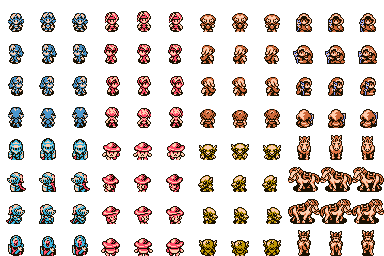
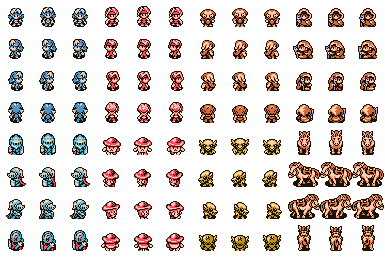
feat: thêm quái mushroom

diff --git a/Enemy.cpp b/Enemy.cpp
@@ -1,11 +1,10 @@
 #include "Enemy.h"
 
+// --- GoblinTexture ---
 Texture GoblinTexture::goblinDown;
 Texture GoblinTexture::goblinUp;
 Texture GoblinTexture::goblinLeft;
 Texture GoblinTexture::goblinRight;
-
-vector<Enemy*> EnemyManager::enemies;
 
 void GoblinTexture::LoadGoblinTextures() {
     goblinUp = LoadTexture("resources/images/goblinUp.png");
@@ -19,8 +18,8 @@ void GoblinTexture::UnloadGoblinTextures() {
     UnloadTexture(goblinDown);
     UnloadTexture(goblinRight);
     UnloadTexture(goblinLeft);
-
 }
+
 Texture GoblinTexture::GetCurrentTexture(Direction d) {
     switch (d) {
         case UP: return goblinUp;
@@ -28,20 +27,66 @@ Texture GoblinTexture::GetCurrentTexture(Direction d) {
         case RIGHT: return goblinRight;
         case LEFT: return goblinLeft;
         default: return goblinDown; 
-        break;
     }
 }
 
+// --- MushroomTexture ---
+Texture MushroomTexture::mushroomDown;
+Texture MushroomTexture::mushroomUp;
+Texture MushroomTexture::mushroomLeft;
+Texture MushroomTexture::mushroomRight;
+
+void MushroomTexture::LoadMushroomTextures() {
+    mushroomUp = LoadTexture("resources/images/mushroomUp.png");
+    mushroomDown = LoadTexture("resources/images/mushroomDown.png");
+    mushroomRight = LoadTexture("resources/images/mushroomRight.png");
+    mushroomLeft = LoadTexture("resources/images/mushroomLeft.png");
+}
+
+void MushroomTexture::UnloadMushroomTextures() {
+    UnloadTexture(mushroomUp);
+    UnloadTexture(mushroomDown);
+    UnloadTexture(mushroomRight);
+    UnloadTexture(mushroomLeft);
+}
+
+Texture MushroomTexture::GetCurrentTexture(Direction d) {
+    switch (d) {
+        case UP: return mushroomUp;
+        case DOWN: return mushroomDown;
+        case RIGHT: return mushroomRight;
+        case LEFT: return mushroomLeft;
+        default: return mushroomDown; 
+    }
+}
+
+vector<Enemy*> EnemyManager::enemies;
+int EnemyManager::goblinWaves = 0;
+int EnemyManager::mushroomWaves = 0;
+
+
+// --- Enemy base methods ---
+Rectangle Enemy::GetHitbox() { return hitbox; }
+void Enemy::TakeDamage(int dmg) {
+    if (dmg >= health) health = 0;
+    else health -= dmg;
+}
+void Enemy::SetPosition(Vector2 pos) {
+    hitbox.x = pos.x;
+    hitbox.y = pos.y;
+}
+void Enemy::Draw() { /* base: do nothing */ }
+void Enemy::Update() { /* base: do nothing */ }
+
+// --- Goblin ---
 void Goblin::Draw() {
     if (health > 0) {
         DrawTexture(texture.GetCurrentTexture(facing), hitbox.x, hitbox.y, WHITE);
     }
 }
 
-
-
 void Goblin::Update() {
-    Player p = Player::Instance();
+    Player& p = Player::Instance();
     Vector2 playerPos = { p.GetHitbox().x, p.GetHitbox().y };
     Vector2 goblinPos = {hitbox.x, hitbox.y};
 
@@ -171,25 +216,57 @@ void Goblin::Update() {
     }
 }
 
-Rectangle Goblin::GetHitbox() {
-    return hitbox;
-}
-
-void Goblin::TakeDamage(int dmg) {
-    if (dmg >= health) {
-        health = 0;
-    }
-    else {
-        health -= dmg;
+// --- Mushroom ---
+void Mushroom::Draw() {
+    if (health > 0) {
+        DrawTexture(texture.GetCurrentTexture(facing), hitbox.x, hitbox.y, WHITE);
     }
 }
 
-void Goblin::SetPosition(Vector2 pos) {
-    hitbox.x = pos.x;
-    hitbox.y = pos.y;
+void Mushroom::Update() {
+    Player& p = Player::Instance();
+    Vector2 playerPos = { p.GetHitbox().x, p.GetHitbox().y };
+    Vector2 myPos = {hitbox.x, hitbox.y};
+    Vector2 toPlayer = {playerPos.x - myPos.x, playerPos.y - myPos.y};
+    float distToPlayer = sqrt(toPlayer.x * toPlayer.x + toPlayer.y * toPlayer.y);
+    if (distToPlayer != 0) {
+        toPlayer.x /= distToPlayer;
+        toPlayer.y /= distToPlayer;
+    }
+    if (fabs(toPlayer.x) > fabs(toPlayer.y)) {
+        facing = (toPlayer.x > 0) ? RIGHT : LEFT;
+    } else {
+        facing = (toPlayer.y > 0) ? DOWN : UP;
+    }
+    float t = GetFrameTime();
+    Vector2 newPos = {hitbox.x + toPlayer.x * speed * t, hitbox.y + toPlayer.y * speed * t};
+    Rectangle newHitbox = hitbox;
+    newHitbox.x = newPos.x;
+    newHitbox.y = newPos.y;
+
+    bool collision = false;
+    for (auto& other : EnemyManager::GetEnemies()) {
+        if (other != this && CheckCollisionRecs(newHitbox, other->GetHitbox())) {
+            collision = true;
+            break;
+        }
+    }
+    for (auto& w : WallManager::GetWalls()) {
+        if (CheckCollisionRecs(newHitbox, w->GetHitbox())) {
+            collision = true;
+            break;
+        }
+    }
+    if (CheckCollisionRecs(newHitbox, Player::Instance().GetHitbox())) {
+        collision = true;
+    }
+    if (!collision) {
+        hitbox.x = newPos.x;
+        hitbox.y = newPos.y;
+    }
 }
 
-
+// --- EnemyManager ---
 vector<Enemy*>& EnemyManager::GetEnemies() {
     return enemies;
 }
@@ -206,8 +283,8 @@ void EnemyManager::Draw() {
 
 void EnemyManager::Update() {
     static float lastWaveSpawnTime = 0.0f;
-    static int waveCounter = 1;
     float now = GetTime();
+    // Spawn Goblin waves up to MAX_GOBLIN_WAVES, then Mushroom waves up to MAX_MUSHROOM_WAVES
     if ((now - lastWaveSpawnTime) >= ENEMY_SPAWN_INTERVAL) {
         Vector2 spawnPositions[4] = {
             {720, -60},
@@ -215,32 +292,57 @@ void EnemyManager::Update() {
             {1460, 425},
             {720, 910}
         };
-        for (auto pos : spawnPositions) {
-            for (int i = 0; i < waveCounter; i++) {
-                float offsetX = (i % 3) * ENEMY_SPAWN_WIDTH;
-                float offsetY = (i / 3) * ENEMY_SPAWN_HEIGHT;
-                Vector2 newSpawnPos = { pos.x + offsetX, pos.y + offsetY };
-
-                bool validPosition = true;
-                for (auto& e : EnemyManager::GetEnemies()) {
-                    if (CheckCollisionRecs(Rectangle{newSpawnPos.x, newSpawnPos.y, ENEMY_SPAWN_WIDTH, ENEMY_SPAWN_HEIGHT}, e->GetHitbox())) {
-                        validPosition = false;
-                        break;
+        if (goblinWaves < /*MAX_GOBLIN_WAVES*/0) {
+            for (auto pos : spawnPositions) {
+                for (int i = 0; i < goblinWaves + 1; i++) {
+                    float offsetX = (i % 3) * ENEMY_SPAWN_WIDTH;
+                    float offsetY = (i / 3) * ENEMY_SPAWN_HEIGHT;
+                    Vector2 newSpawnPos = { pos.x + offsetX, pos.y + offsetY };
+                    bool validPosition = true;
+                    for (auto& e : enemies) {
+                        if (CheckCollisionRecs(Rectangle{newSpawnPos.x, newSpawnPos.y, ENEMY_SPAWN_WIDTH, ENEMY_SPAWN_HEIGHT}, e->GetHitbox())) {
+                            validPosition = false;
+                            break;
+                        }
                     }
-                }
-                for (auto& w : WallManager::GetWalls()) {
-                    if (CheckCollisionRecs(Rectangle{newSpawnPos.x, newSpawnPos.y, ENEMY_SPAWN_WIDTH, ENEMY_SPAWN_HEIGHT}, w->GetHitbox())) {
-                        validPosition = false;
-                        break;
+                    for (auto& w : WallManager::GetWalls()) {
+                        if (CheckCollisionRecs(Rectangle{newSpawnPos.x, newSpawnPos.y, ENEMY_SPAWN_WIDTH, ENEMY_SPAWN_HEIGHT}, w->GetHitbox())) {
+                            validPosition = false;
+                            break;
+                        }
                     }
-                }
-
-                if (validPosition) {
-                    EnemyManager::AddEnemy(new Goblin(newSpawnPos));
+                    if (validPosition) {
+                        AddEnemy(new Goblin(newSpawnPos));
+                    }
                 }
             }
+            goblinWaves++;
+        } else if (mushroomWaves < MAX_MUSHROOM_WAVES) {
+            for (auto pos : spawnPositions) {
+                for (int i = 0; i < mushroomWaves + 1; i++) {
+                    float offsetX = (i % 3) * ENEMY_SPAWN_WIDTH;
+                    float offsetY = (i / 3) * ENEMY_SPAWN_HEIGHT;
+                    Vector2 newSpawnPos = { pos.x + offsetX, pos.y + offsetY };
+                    bool validPosition = true;
+                    for (auto& e : enemies) {
+                        if (CheckCollisionRecs(Rectangle{newSpawnPos.x, newSpawnPos.y, ENEMY_SPAWN_WIDTH, ENEMY_SPAWN_HEIGHT}, e->GetHitbox())) {
+                            validPosition = false;
+                            break;
+                        }
+                    }
+                    for (auto& w : WallManager::GetWalls()) {
+                        if (CheckCollisionRecs(Rectangle{newSpawnPos.x, newSpawnPos.y, ENEMY_SPAWN_WIDTH, ENEMY_SPAWN_HEIGHT}, w->GetHitbox())) {
+                            validPosition = false;
+                            break;
+                        }
+                    }
+                    if (validPosition) {
+                        AddEnemy(new Mushroom(newSpawnPos));
+                    }
+                }
+            }
+            mushroomWaves++;
         }
-        if (waveCounter <= ENEMY_SPAWN_WAVE_MAX) waveCounter++;
         lastWaveSpawnTime = now;
     }
 
@@ -259,4 +361,5 @@ void EnemyManager::Destruct() {
     for (auto& e : enemies) {
         delete e;
     }
+    enemies.clear();
 }

diff --git a/Enemy.h b/Enemy.h
@@ -19,6 +19,18 @@ public:
     Texture GetCurrentTexture(Direction d);
 };
 
+class MushroomTexture {
+private:
+    static Texture mushroomUp;
+    static Texture mushroomDown;
+    static Texture mushroomRight;
+    static Texture mushroomLeft;
+public:
+    static void LoadMushroomTextures();
+    static void UnloadMushroomTextures();
+    Texture GetCurrentTexture(Direction d);
+};
+
 class Enemy {
 protected:
     int health;
@@ -28,16 +40,21 @@ protected:
     Direction facing;
 public:
     bool isDead() const { return health == 0; }
-    virtual Rectangle GetHitbox() = 0;
-    virtual void TakeDamage(int dmg) = 0;
-    virtual void Draw() = 0;
-    virtual void Update() = 0;
+    Rectangle GetHitbox();
+    void TakeDamage(int dmg);
+    virtual void Draw();
+    virtual void Update();
+    void SetPosition(Vector2 pos);
     virtual ~Enemy() {}
 };
 
 class EnemyManager {
 private:
     static vector<Enemy*> enemies;
+    static int goblinWaves;
+    static int mushroomWaves;
+    static const int MAX_GOBLIN_WAVES = 7;
+    static const int MAX_MUSHROOM_WAVES = 5;
 public:
     static vector<Enemy*>& GetEnemies();
     static void AddEnemy(Enemy* en);
@@ -59,9 +76,23 @@ public:
     }
     void Draw();
     void Update();
-    Rectangle GetHitbox();
-    void TakeDamage(int dmg);
-    void SetPosition(Vector2);
+};
+
+class Mushroom : public Enemy {
+private:
+    MushroomTexture texture;
+public:
+    Mushroom(Vector2 pos) {
+        health = MUSHROOM_HEALTH; // Mushroom health
+        hitbox.x = pos.x;
+        hitbox.y = pos.y;
+        hitbox.width = MUSHROOM_WIDTH;
+        hitbox.height = MUSHROOM_HEIGHT;
+        speed = MUSHROOM_SPEED; // Mushroom speed
+        facing = DOWN;
+    }
+    void Draw();
+    void Update();
 };
 
 #endif

diff --git a/Config.h b/Config.h
@@ -18,13 +18,18 @@ const float PLAYER_START_X = 720.0f;
 const float PLAYER_START_Y = 450.0f;
 
 // Enemy
-const int GOBLIN_SPEED = 175;
+const int GOBLIN_SPEED = 160;
 const int GOBLIN_HEALTH = 1;
 const float GOBLIN_WIDTH = 35.0f;
 const float GOBLIN_HEIGHT = 35.0f;
 const float GOBLIN_SEPARATION_RADIUS = 10.0f;
 const float GOBLIN_CHASE_WEIGHT = 1.0f;
 const float GOBLIN_SEPARATION_WEIGHT = 1.2f;
+
+const int MUSHROOM_SPEED = 110;
+const int MUSHROOM_HEALTH = 3;
+const float MUSHROOM_WIDTH = 50.0f;
+const float MUSHROOM_HEIGHT = 50.0f;
 
 // Fireball
 const int FIREBALL_SPEED = 300;
@@ -72,6 +77,6 @@ const float MULTISHOT_OFFSET_Y3 = 10.0f;
 const float ENEMY_SPAWN_INTERVAL = 5.0f;
 const float ENEMY_SPAWN_WIDTH = 45.0f;
 const float ENEMY_SPAWN_HEIGHT = 45.0f;
-const int ENEMY_SPAWN_WAVE_MAX = 3;
+const int ENEMY_SPAWN_WAVE_MAX = 7;
 
 #endif

diff --git a/main.cpp b/main.cpp
@@ -19,6 +19,7 @@ int main () {
     PlayerTexture::LoadTextures();
     Fireball::LoadFireballTexture();
     GoblinTexture::LoadGoblinTextures();
+    MushroomTexture::LoadMushroomTextures();
     VerticalWall::LoadWallTexture();
     HorizontalWall::LoadWallTexture();
     WallManager::InitCornerWalls();
@@ -91,6 +92,8 @@ int main () {
     HorizontalWall::UnloadWallTexture();
     Fireball::UnloadFireballTexture();
     PlayerTexture::UnloadTextures();
+    GoblinTexture::UnloadGoblinTextures();
+    MushroomTexture::UnloadMushroomTextures();
     UnloadTexture(background);
 
     CloseAudioDevice();
